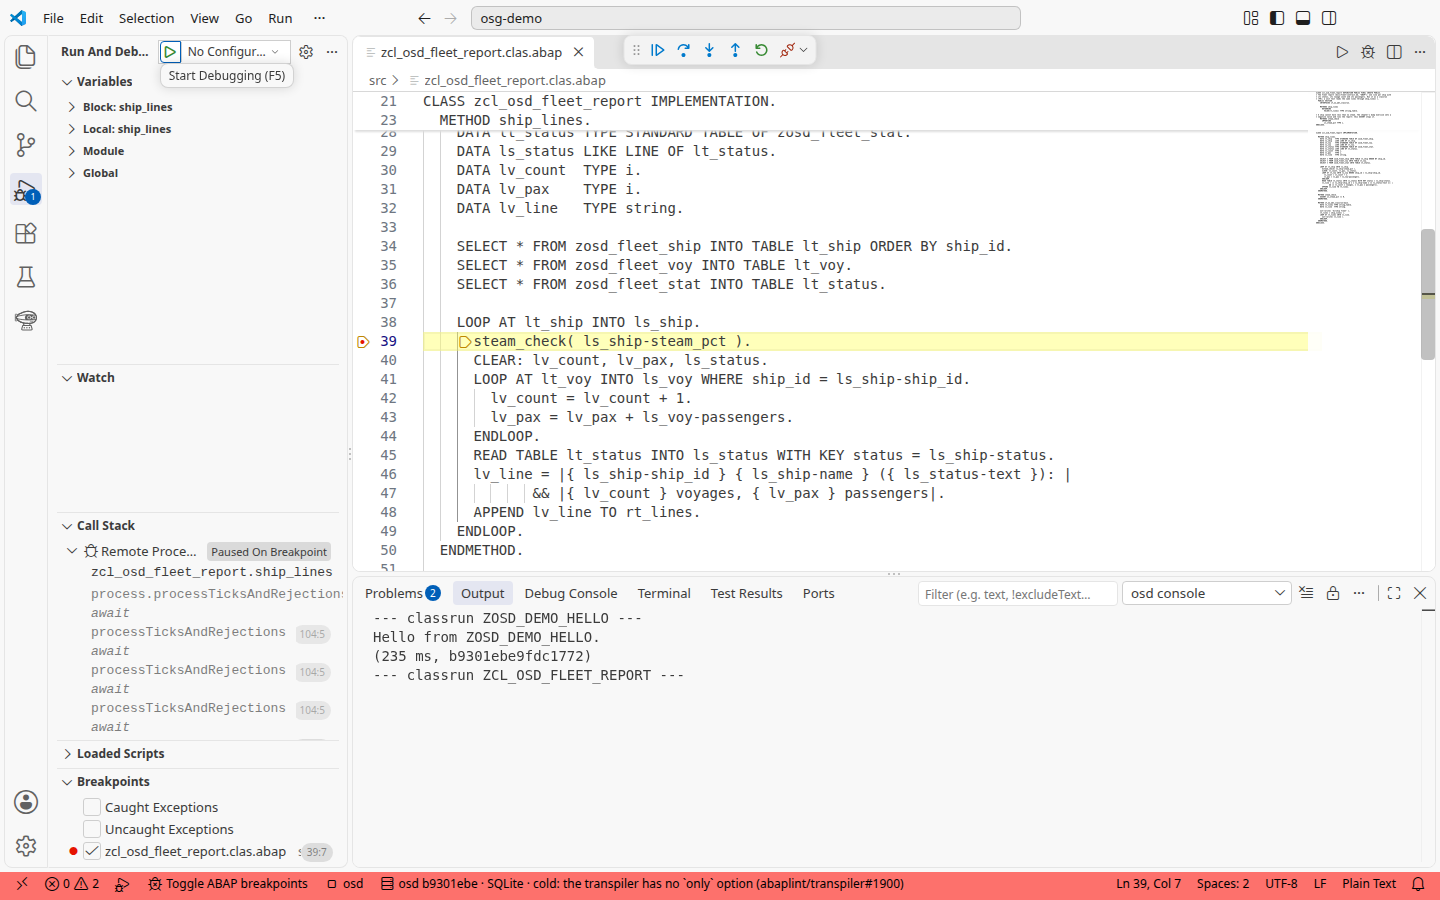
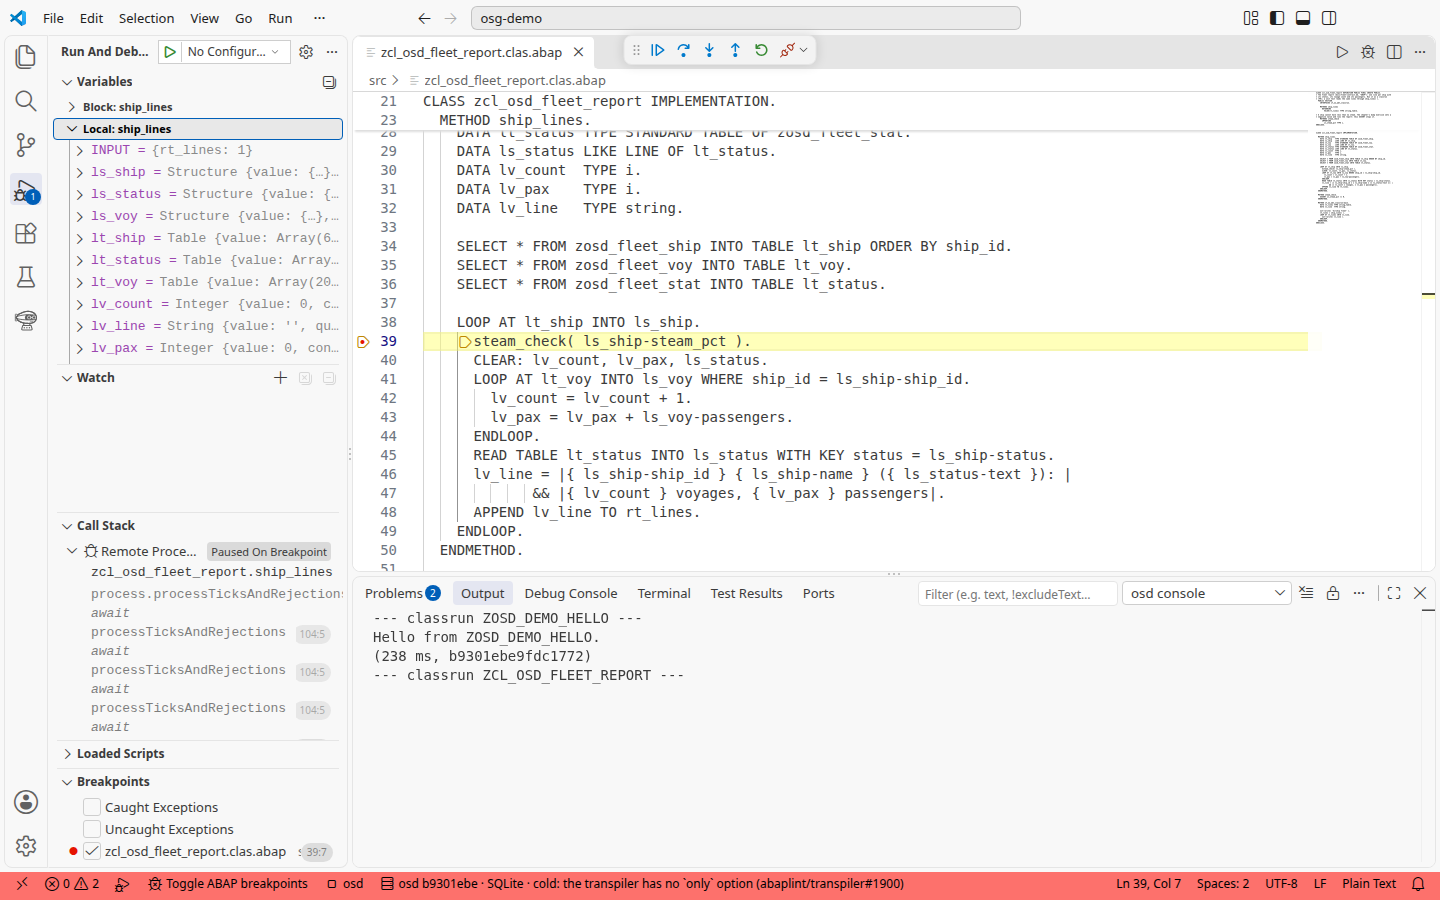
PR #40 review: each picture taken once its state is on screen; pictures copied only when all pass
- test/vscode-shots.mjs waits for the greeting, "1 passed, 0 failed", the
  ship rows in Data Preview, and "Paused On Breakpoint" with the expanded
  local variables; stops after a failed start; shoots into /tmp/osd-shot and
  copies to OUT only when every step passed; the mouse leaves the editor;
  Data Preview without the Testing side bar and panel; header says what
  OSD_HOME, WS and xvfb-run need
- chapter 2: the breakpoint workaround right after Ctrl+Shift+B; the
  debugger caption says local variables
- appendix A and README list cli-shots.mjs and vscode-shots.mjs
- pictures retaken

Claude-Session: https://claude.ai/code/session_018Djywwje7kdEq6CEr4LG73

Changed region(s): [[0.0312, 0.1244, 0.2188, 0.4044], [0.9688, 0.2489, 1.0, 0.4044], [0.125, 0.0622, 0.1875, 0.0933]]

diff --git a/book/ru/02-debug-tests-dumps.md b/book/ru/02-debug-tests-dumps.md
@@ -14,9 +14,9 @@
 ![F8 на ZOSD_FLEET_SHIP: Data Preview с шестью кораблями](../img/vscode-data-preview.png)
 
 1. Откройте [ZCL_OSD_FLEET_REPORT](../../src/zcl_osd_fleet_report.clas.abap) и нажмите **F9**. Ожидается: консоль показывает `Airship fleet` и по одной строке на корабль, начиная с `S001 Albatross (Aloft): 6 voyages, 305 passengers` и заканчивая `S006 Old Boiler (Maintenance): 0 voyages, 0 passengers`.
-2. В `ship_lines` поставьте точку останова на `steam_check( ls_ship-steam_pct ).` клавишами **Ctrl+Shift+B** и выполните **osd: Run as ABAP Application with debugger**. Отладчик подключается автоматически. Ожидается: VS Code останавливается на этой строке, в `ls_ship` первый корабль, `S001`. Продолжите клавишей **F8**: пока точка останова на месте, выполнение снова остановится на следующем корабле, поэтому снимите ее (снова **Ctrl+Shift+B**) и нажмите **F8** еще раз; консоль выводит те же шесть строк, что и в шаге 1. После этого остановите сеанс отладки (**Run > Stop Debugging**). Начиная с 0.4 F9 и F8 снова запускают код, как только отладчик больше не стоит на строке; в 0.3.1370 они по-прежнему переключают точки останова и продолжают выполнение, пока сеанс работает, и если точка останова осталась, следующий запуск снова подключит отладчик. Если **Ctrl+Shift+B** не ставит точку останова (расширение 0.4.1414 открывает `.abap` как Plain Text, где VS Code ее не принимает), задайте в настройках `"debug.allowBreakpointsEverywhere": true`.
+2. В `ship_lines` поставьте точку останова на `steam_check( ls_ship-steam_pct ).` клавишами **Ctrl+Shift+B** (если точка не ставится: расширение 0.4.1414 открывает `.abap` как Plain Text, где VS Code ее не принимает; задайте в настройках `"debug.allowBreakpointsEverywhere": true`) и выполните **osd: Run as ABAP Application with debugger**. Отладчик подключается автоматически. Ожидается: VS Code останавливается на этой строке, в `ls_ship` первый корабль, `S001`. Продолжите клавишей **F8**: пока точка останова на месте, выполнение снова остановится на следующем корабле, поэтому снимите ее (снова **Ctrl+Shift+B**) и нажмите **F8** еще раз; консоль выводит те же шесть строк, что и в шаге 1. После этого остановите сеанс отладки (**Run > Stop Debugging**). Начиная с 0.4 F9 и F8 снова запускают код, как только отладчик больше не стоит на строке; в 0.3.1370 они по-прежнему переключают точки останова и продолжают выполнение, пока сеанс работает, и если точка останова осталась, следующий запуск снова подключит отладчик.
 
-   ![Остановка на steam_check: переменные ship_lines и стек вызовов](../img/vscode-debugger.png)
+   ![Остановка на steam_check: локальные переменные ship_lines и стек вызовов](../img/vscode-debugger.png)
 
 3. Намеренно сломайте тест. В [тестовом классе](../../src/zcl_osd_fleet_report.clas.testclasses.abap) удалите ведущий `*` у объявления `broken_on_purpose` (строка 11) и у его метода (строки 40-44), нажмите **Ctrl+F3** и запустите тесты `ZCL_OSD_FLEET_REPORT` в Testing. Ожидается: `counts_voyages` зеленый, а `broken_on_purpose` красный с проваленной проверкой: он ожидает `1 voyages` для S006, а отчет выдает `0 voyages`. Верните все шесть `*`, активируйте и перезапустите: остается только `counts_voyages`, зеленый.
 4. Вызовите дамп в отчете. Пар у корабля не может быть отрицательным, и `steam_check` проверяет это с помощью `ASSERT iv_steam_pct >= 0`. Задайте кораблю отрицательный пар через OData (вызовы объясняются в главе 3):

diff --git a/book/02-debug-tests-dumps.md b/book/02-debug-tests-dumps.md
@@ -14,9 +14,9 @@ To inspect the data, open a definition below and press **F8**. The extension ope
 ![F8 on ZOSD_FLEET_SHIP: Data Preview with the six ships](img/vscode-data-preview.png)
 
 1. Open [ZCL_OSD_FLEET_REPORT](../src/zcl_osd_fleet_report.clas.abap) and press **F9**. Expected: the console shows `Airship fleet` and one line per ship, starting with `S001 Albatross (Aloft): 6 voyages, 305 passengers` and ending with `S006 Old Boiler (Maintenance): 0 voyages, 0 passengers`.
-2. In `ship_lines`, set a breakpoint on `steam_check( ls_ship-steam_pct ).` with **Ctrl+Shift+B** and run **osd: Run as ABAP Application with debugger**. The debugger attaches automatically. Expected: VS Code stops on that line with the first ship, `S001`, in `ls_ship`. Continue with **F8**: it stops again at the next ship while the breakpoint is there, so remove it (**Ctrl+Shift+B** again) and press **F8** once more; the console prints the same six lines as in step 1. Afterwards stop the debug session (**Run > Stop Debugging**). From 0.4 on, F9 and F8 go back to running as soon as the debugger no longer stands on a line; on 0.3.1370 they keep toggling and continuing while the session runs, and with a breakpoint left the next start attaches it again. If **Ctrl+Shift+B** sets no breakpoint (the extension 0.4.1414 opens `.abap` as Plain Text, where VS Code refuses one), set `"debug.allowBreakpointsEverywhere": true` in your settings.
+2. In `ship_lines`, set a breakpoint on `steam_check( ls_ship-steam_pct ).` with **Ctrl+Shift+B** (if it sets none: the extension 0.4.1414 opens `.abap` as Plain Text, where VS Code refuses a breakpoint; set `"debug.allowBreakpointsEverywhere": true` in your settings) and run **osd: Run as ABAP Application with debugger**. The debugger attaches automatically. Expected: VS Code stops on that line with the first ship, `S001`, in `ls_ship`. Continue with **F8**: it stops again at the next ship while the breakpoint is there, so remove it (**Ctrl+Shift+B** again) and press **F8** once more; the console prints the same six lines as in step 1. Afterwards stop the debug session (**Run > Stop Debugging**). From 0.4 on, F9 and F8 go back to running as soon as the debugger no longer stands on a line; on 0.3.1370 they keep toggling and continuing while the session runs, and with a breakpoint left the next start attaches it again.
 
-   ![Stopped on steam_check: the variables of ship_lines and the call stack](img/vscode-debugger.png)
+   ![Stopped on steam_check: the local variables of ship_lines and the call stack](img/vscode-debugger.png)
 
 3. Break a test on purpose. In [the test class](../src/zcl_osd_fleet_report.clas.testclasses.abap), remove the leading `*` from the `broken_on_purpose` declaration (line 11) and from its method (lines 40-44), press **Ctrl+F3**, and run the tests of `ZCL_OSD_FLEET_REPORT` in Testing. Expected: `counts_voyages` is green and `broken_on_purpose` is red with a failed assertion: it expects `1 voyages` for S006, and the report says `0 voyages`. Put the six `*` back, activate, and rerun: only `counts_voyages` is left, green.
 4. Make the report dump. A ship cannot have less than no steam, and `steam_check` says so with `ASSERT iv_steam_pct >= 0`. Give a ship negative steam through OData (chapter 3 explains the calls):

diff --git a/book/ru/90-run-the-checks.md b/book/ru/90-run-the-checks.md
@@ -15,3 +15,5 @@
 | `test/cli.mjs` | собирает программу командной строки флота через osabap (Go 1.26) и прогоняет шаги главы 14 как проверки | файл SQLite | да |
 | `test/book-snippets.mjs` | каждый фрагмент кода в книге совпадает с исходником в `src/` (`--write` обновляет их) | не нужен | да, первым шагом |
 | `test/book-shots.mjs` | заново снимает скриншоты в `book/img/` с работающего движка | SQLite | нет, запускается вручную |
+| `test/cli-shots.mjs` | заново снимает картинки терминала и TUI главы 14 с программы, которую оставил `test/cli.mjs --keep` | файл SQLite | нет, запускается вручную |
+| `test/vscode-shots.mjs` | заново снимает картинки VS Code глав 1 и 2: VS Code и выпущенное расширение под Xvfb, каждый кадр снимается, когда его состояние уже на экране | SQLite | нет, запускается вручную |

diff --git a/README.md b/README.md
@@ -61,7 +61,10 @@ OSD_HOME=/path/to/open-steamgate node test/l2.mjs                               
 node test/book-snippets.mjs                                                      # the book's code excerpts match src/
 OSD_HOME=/path/to/open-steamgate node test/cli.mjs                              # build the fleet CLI (Go 1.26) and run chapter 14
 OSD_HOME=/path/to/open-steamgate node test/book-shots.mjs                       # retake the book's screenshots
+OSD_HOME=/path/to/open-steamgate node test/cli-shots.mjs /tmp/fleet-cli         # chapter 14's pictures, after cli.mjs --keep /tmp/fleet-cli
 ```
+
+`test/vscode-shots.mjs` retakes the VS Code pictures of chapters 1 and 2; its header says what it needs (VS Code, the extension's VSIX, Xvfb).
 
 CI runs the slice on SQLite and DuckDB (with `SLICE_SKIP_UI=1`, so the browser check is skipped) and the job checks against open-steamgate `main` on every change ([smoke.yml](.github/workflows/smoke.yml)); slice check 16 runs the lift check and check 17 the L2 rule's. [Appendix A](book/90-run-the-checks.md) says what each covers.
 

diff --git a/book/90-run-the-checks.md b/book/90-run-the-checks.md
@@ -15,4 +15,6 @@ region of `ZCL_OSD_FLEET_LIFT=>AFTER` is what the lift recipe renders from
 | `test/cli.mjs` | builds the fleet's command line program with osabap (Go 1.26) and runs chapter 14's steps as checks | SQLite file | yes |
 | `test/book-snippets.mjs` | every code excerpt in the book equals its source in `src/` (`--write` refreshes them) | none needed | yes, first step |
 | `test/book-shots.mjs` | retakes the screenshots in `book/img/` from a running engine | SQLite | no, run by hand |
+| `test/cli-shots.mjs` | retakes chapter 14's terminal and TUI pictures from the program `test/cli.mjs --keep` left | SQLite file | no, run by hand |
+| `test/vscode-shots.mjs` | retakes chapters 1 and 2's VS Code pictures: VS Code and the released extension under Xvfb, each picture taken once its state is on screen | SQLite | no, run by hand |
 
